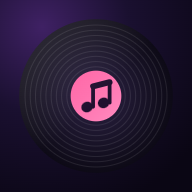
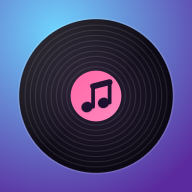
圖示改亮底讓黑膠跳出來；隨機卡的標籤移到下一行
圖示：原本深紫底配近黑色唱片，在手機桌面上兩者糊在一起看不出是黑膠。
底色改成青→紫漸層（用遊戲的 accent2），唱片外圈加一道淡白描邊做分離。
maskable 版的唱片從 0.62 放大到 0.70（安全區是 0.80，仍在範圍內）。

版面：「🔀 隨機」和「混合三種難度」原本擠在同一個 flex 行，
手機窄螢幕會把「隨機」兩個字拆成兩行。改成標籤獨立一行。

diff --git a/index.html b/index.html
@@ -104,6 +104,8 @@
   .diff-boss{ border-color:#f8717155; } .diff-boss:hover{ border-color:var(--red); }
   .diff-random{ border-color:#5fd0ff55; grid-column:1 / -1;} .diff-random:hover{ border-color:var(--accent2); }
   .badge{ font-size:11px; padding:2px 8px; border-radius:999px; background:rgba(255,255,255,.08); }
+  /* 標籤獨立成一行，手機窄螢幕時「隨機」兩個字才不會被擠到換行 */
+  .diff-card .badge-line{ margin:-2px 0 6px; }
 
   /* ---------- 遊戲畫面 ---------- */
   .hud{
@@ -475,7 +477,8 @@
         <div class="meta">8 題・每段 5 秒<br>耳力大考驗</div>
       </button>
       <button class="diff-card diff-random" data-diff="random" style="grid-column:auto;">
-        <div class="name">🔀 隨機 <span class="badge">混合三種難度</span></div>
+        <div class="name">🔀 隨機</div>
+        <div class="badge-line"><span class="badge">混合三種難度</span></div>
         <div class="meta">4~8 題隨機・每題難度也隨機（簡單/困難/魔王混戰）</div>
       </button>
     </div>
